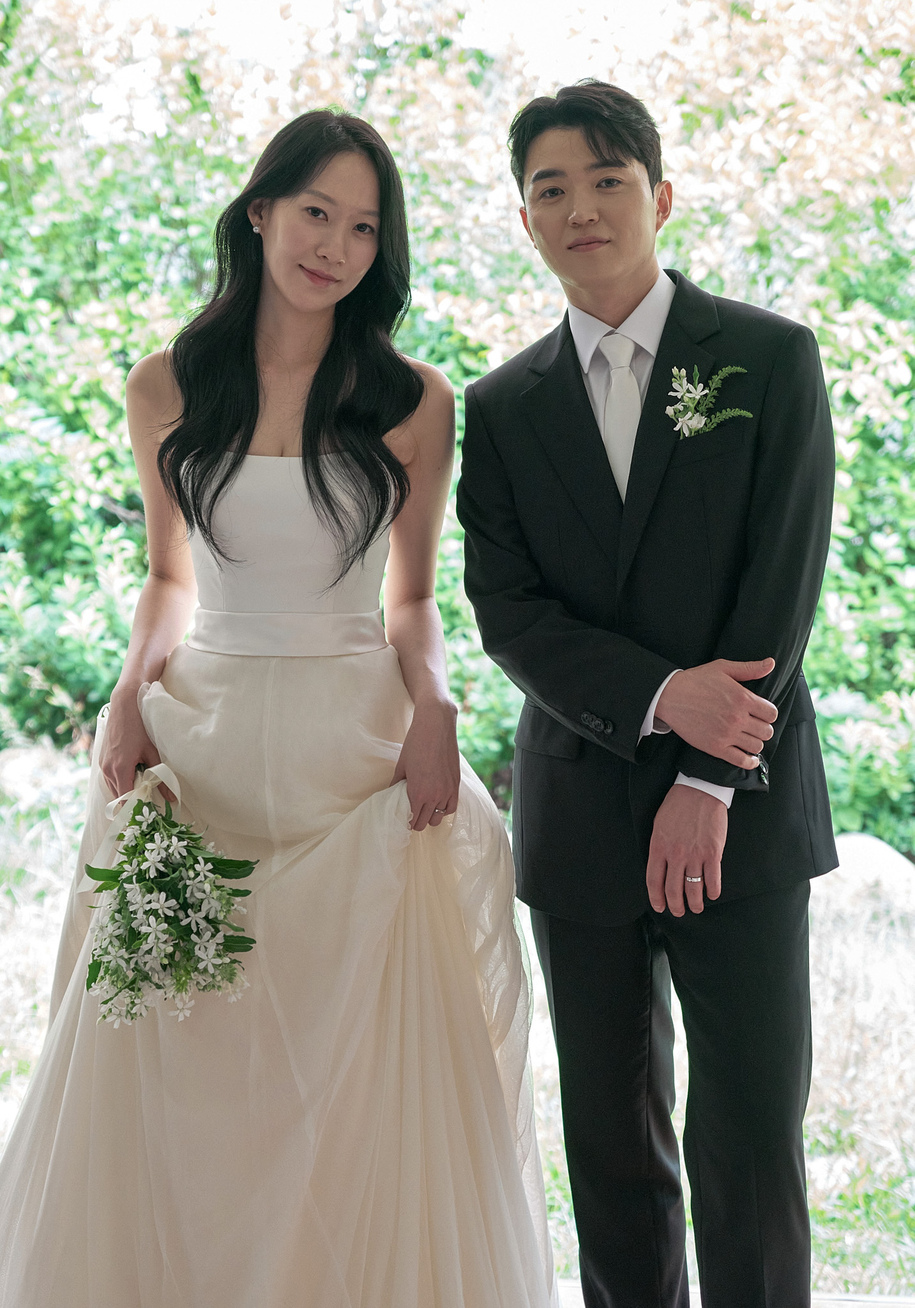
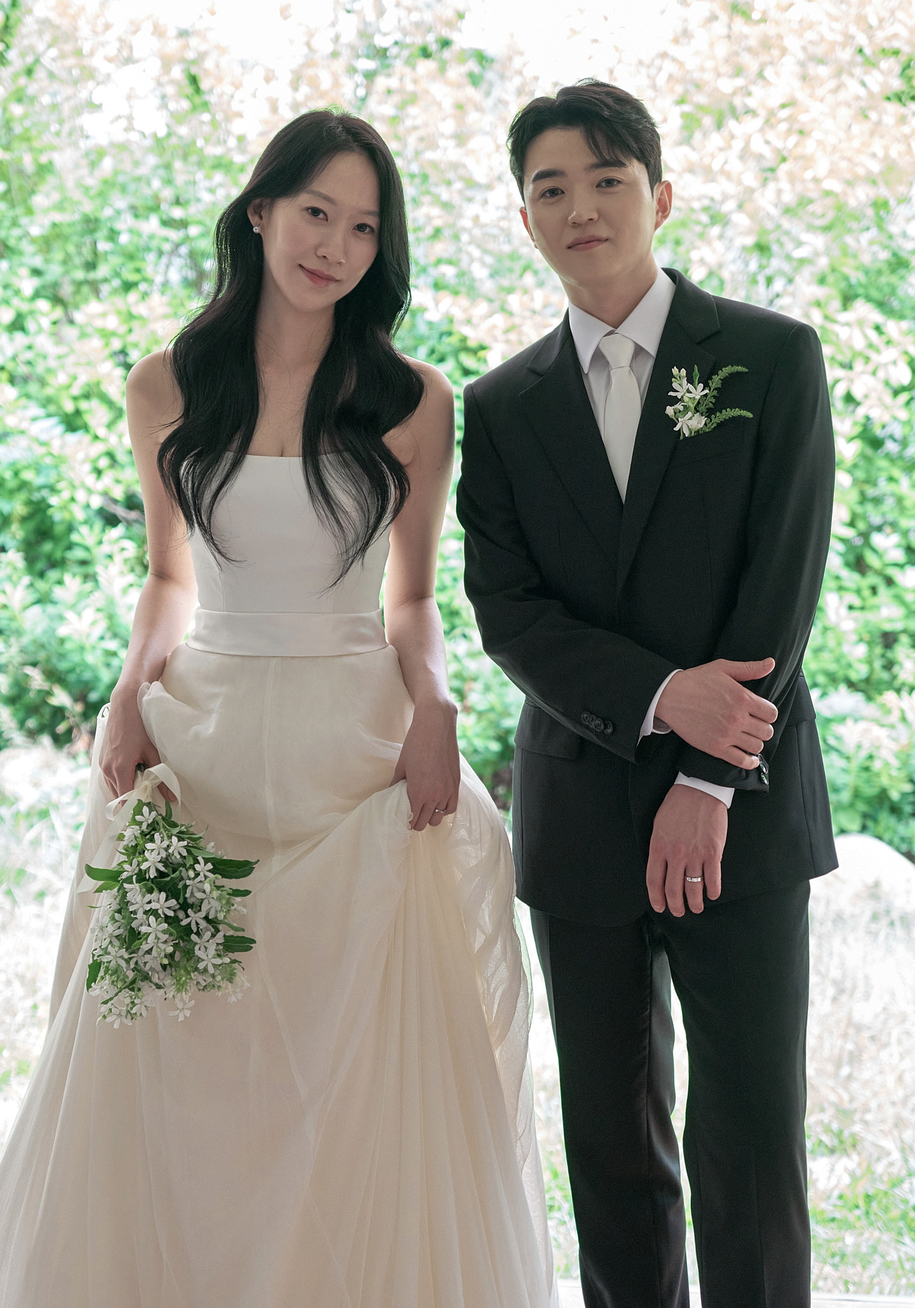
포토샵 건드려봄

diff --git a/index.html b/index.html
@@ -3,7 +3,7 @@
   <head>
     <meta charset="UTF-8" />
     <meta name="viewport" content="width=device-width, initial-scale=1.0" />
-    <title>김도경, 김재원 결혼합니다.</title>
+    <title>김도경, 김재원 결혼합니다♥</title>
 
     <!-- tailwind -->
     <script src="https://cdn.tailwindcss.com"></script>
